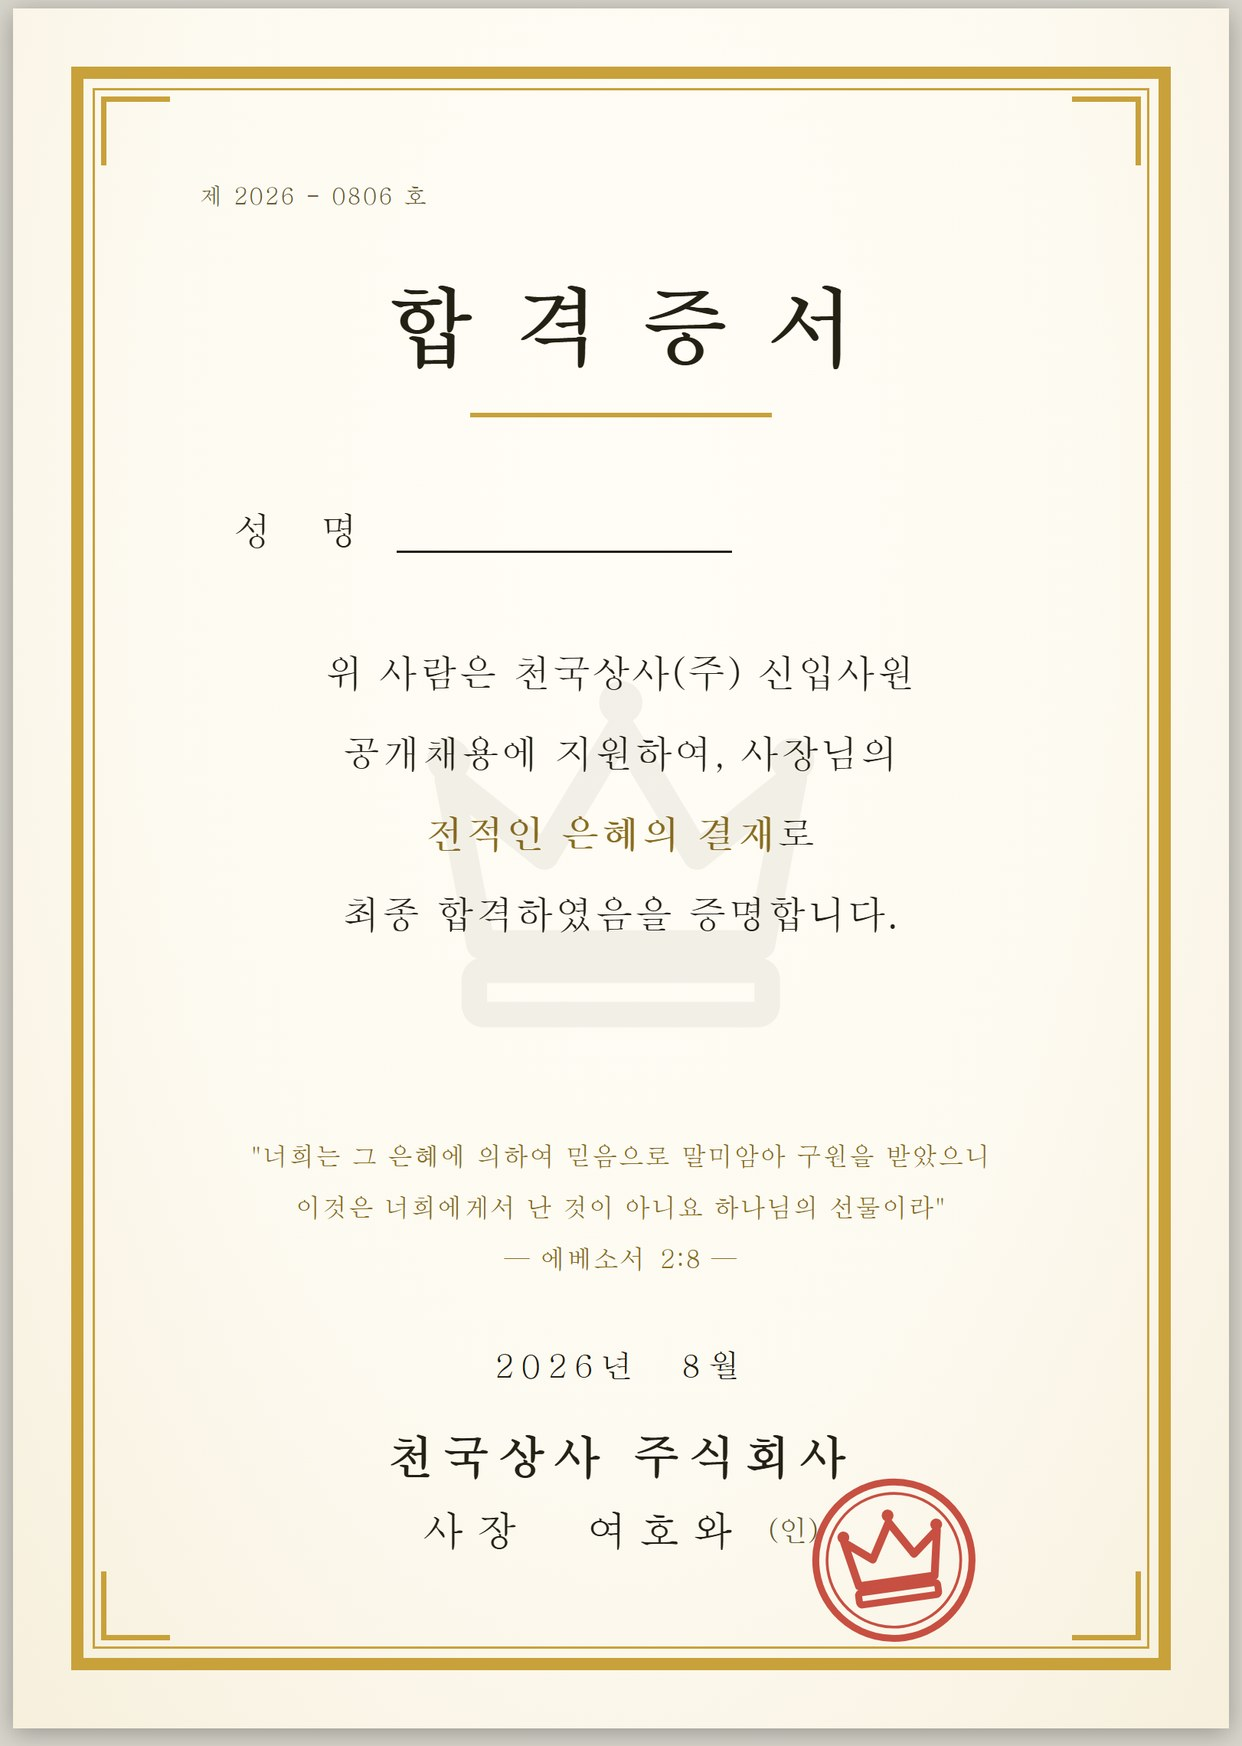
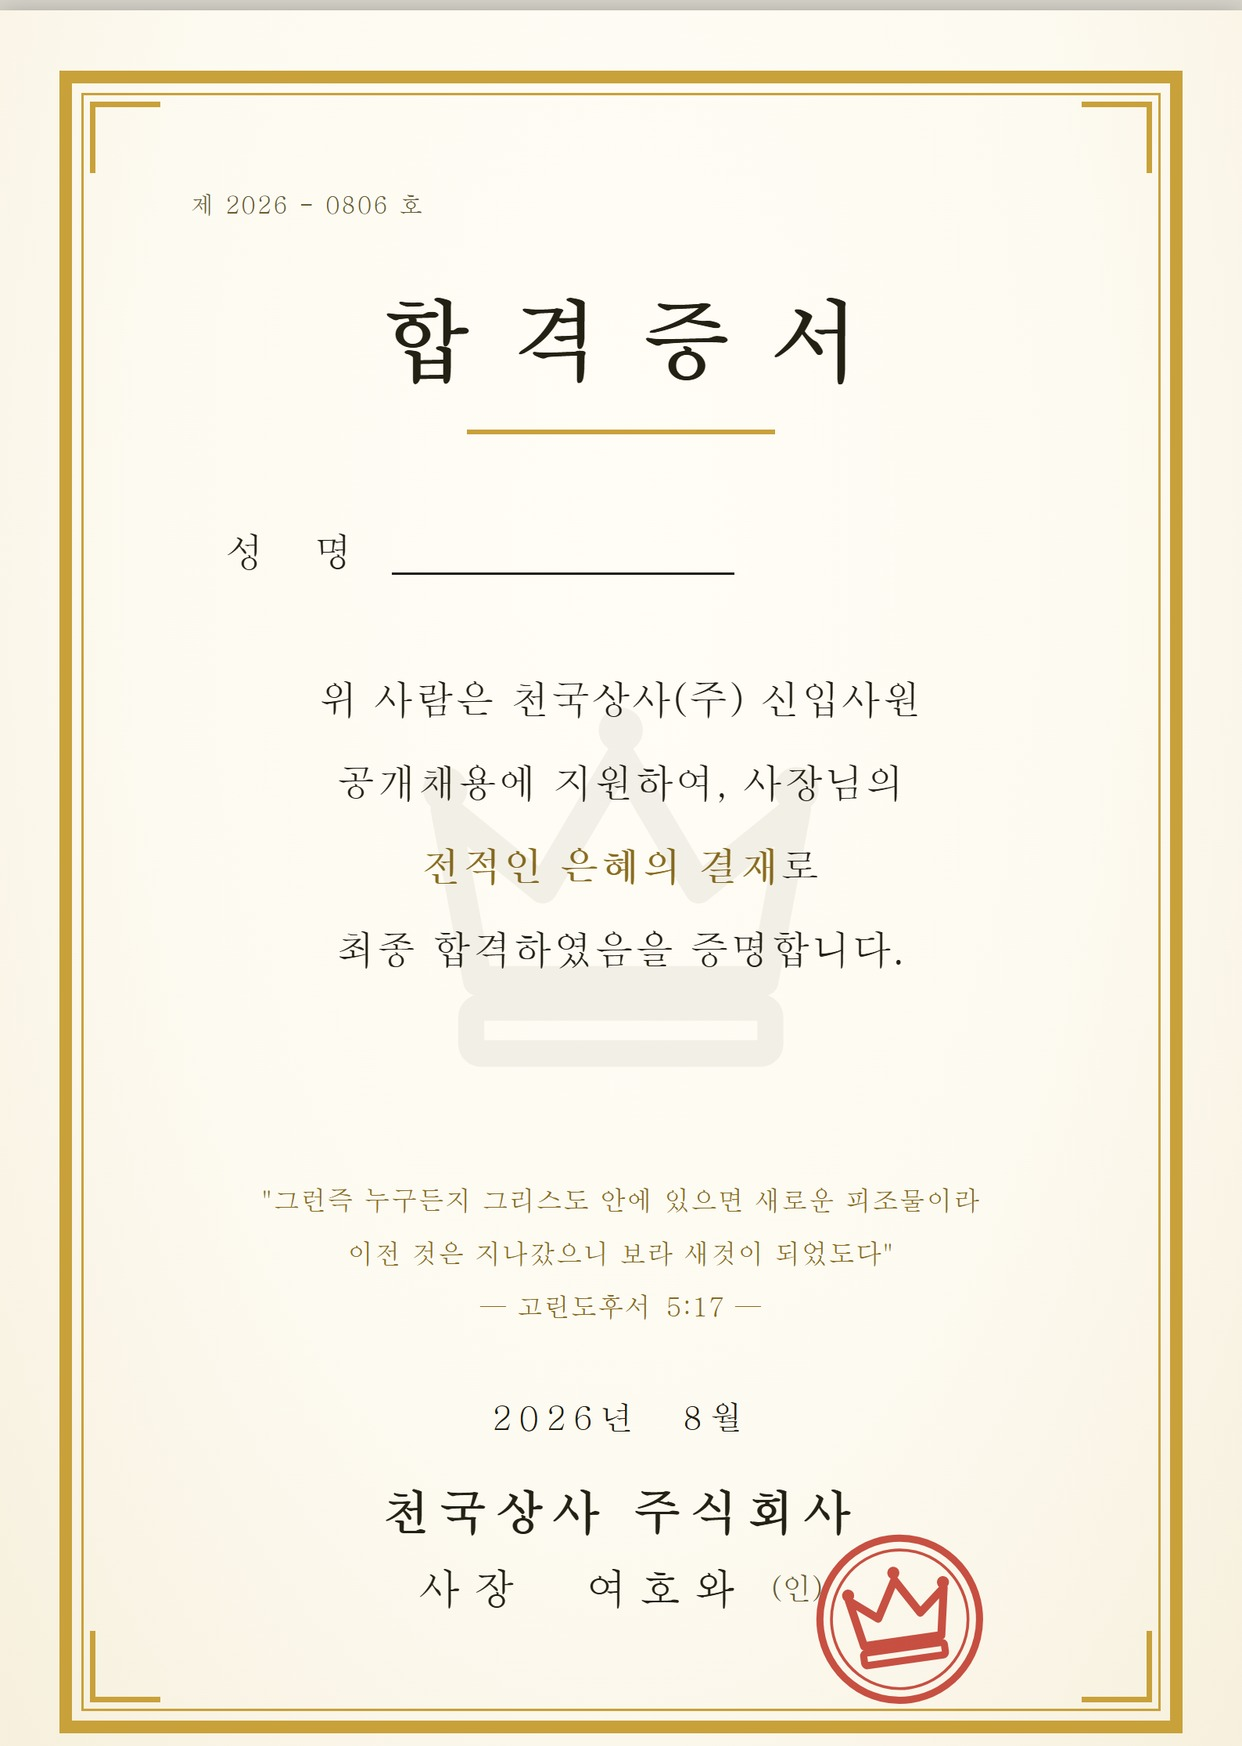
씬 우상단 날짜 제거 + 전체화면 재진입 + 이사 스프라이트/증서 갱신
- 씬 우상단 날짜 표기(.vn-date) 삭제 — story.js의 date 스텝은 통과만 함
- 전체화면이 풀리면 다음 탭에서 자동 재진입(keepFullscreen)
- 바울/다윗/베드로 스프라이트를 배경 제거(투명) 버전으로 교체
- 합격증서 성경구절을 고린도후서 5:17로 변경 (이름 합성 좌표 검증 완료)

diff --git a/js/engine.js b/js/engine.js
@@ -160,6 +160,20 @@ document.addEventListener("visibilitychange", () => {
   if (document.visibilityState === "visible") keepAwake();
 });
 
+/* ---------- 전체화면 유지 ----------
+   ESC·뒤로가기·알림 등으로 전체화면이 풀리면 다음 탭에서 다시 들어간다.
+   전체화면 요청은 사용자 제스처 안에서만 허용되므로 탭 시점에 처리.
+   iOS Safari(아이폰)는 Fullscreen API 자체가 없어 조용히 넘어감 */
+function keepFullscreen() {
+  const rt = document.documentElement;
+  if (!rt.requestFullscreen) return;
+  document.addEventListener("pointerdown", () => {
+    if (!document.fullscreenElement) {
+      rt.requestFullscreen({ navigationUI: "hide" }).catch(() => {});
+    }
+  }, { capture: true, passive: true });
+}
+
 /* ---------- 진행 저장 / 이어하기 ----------
    매 스텝 위치와 선택(flags)을 폰에 저장 → 새로고침·리로드 시
    "이어하기"로 그 장면부터 복구 (12시간 지난 기록은 무시) */
@@ -191,7 +205,6 @@ function fastForward(end) {
     if (s.type === "bg") vn.bg = s.value;
     else if (s.type === "sprite") vn.sprite = s.value;
     else if (s.type === "place") vn.place = s.value;
-    else if (s.type === "date") vn.date = s.value;
     else if (s.type === "bgm") lastBgm = s.stop ? null : s.play;
   }
   if (lastBgm) demoBgm(lastBgm); // 데모 모드일 때만 재생됨
@@ -294,14 +307,13 @@ function showStartVideo() {
 }
 
 /* ---------- 비주얼노벨 대사 ---------- */
-const vn = { bg: "bg-room", sprite: "", place: "", date: "", el: null };
+const vn = { bg: "bg-room", sprite: "", place: "", el: null };
 
 function ensureVN() {
   if (vn.el && document.body.contains(vn.el)) return vn.el;
   const el = screen("vn-screen", `
     <div class="vn-bg ${vn.bg}"></div>
     <div class="vn-place" style="display:none"></div>
-    <div class="vn-date" style="display:none"></div>
     <div class="vn-sprite" style="display:none"></div>
     <div class="vn-box">
       <span class="vn-name" style="display:none"></span>
@@ -324,9 +336,6 @@ function refreshVN() {
   const pl = el.querySelector(".vn-place");
   pl.style.display = vn.place ? "" : "none";
   pl.textContent = vn.place;
-  const dt = el.querySelector(".vn-date");
-  dt.style.display = vn.date ? "" : "none";
-  dt.textContent = vn.date;
   const sp = el.querySelector(".vn-sprite");
   // img: 스프라이트(성별 무관 실사 인물)는 잘라내지 않고 대사창 위에 전체를 보여줌
   sp.classList.toggle("fit", vn.sprite.startsWith("img:"));
@@ -944,7 +953,7 @@ async function runStory(startAt = 0) {
       case "bg": vn.bg = s.value; break;
       case "sprite": vn.sprite = s.value; break;
       case "place": vn.place = s.value; break;
-      case "date": vn.date = s.value; break; // 씬 우상단 날짜 표기
+      case "date": break; // 씬 우상단 날짜 표기 — 사용하지 않음(스텝만 통과)
       case "say": await showSay(s); break;
       case "choice": await showChoice(s); break;
       case "say-if":
@@ -981,6 +990,7 @@ async function runStory(startAt = 0) {
 (async function main() {
   await showTapStart();   // 첫 터치 → 이후 BGM 자동재생 허용 + 전체화면
   keepAwake();            // 화면 꺼짐 방지
+  keepFullscreen();       // 전체화면이 풀리면 다음 탭에 자동 재진입
 
   // 진행하던 기록이 있으면 이어하기 제안
   // (단, 진행자가 그 이후에 전체 초기화를 했다면 기록을 폐기하고 처음부터)

diff --git a/css/style.css b/css/style.css
@@ -358,16 +358,6 @@ html, body {
   backdrop-filter: blur(4px);
 }
 /* 씬 우상단 날짜 — 작은 흰 글씨 */
-.vn-date {
-  position: absolute;
-  top: 22px;
-  right: 18px;
-  font-size: 12px;
-  letter-spacing: .06em;
-  color: rgba(255,255,255,.92);
-  text-shadow: 0 1px 5px rgba(0,0,0,.65);
-  animation: fadeIn .8s ease both;
-}
 /* 선택지 버튼 (대사창 위에 표시) */
 .vn-choices {
   position: absolute;
